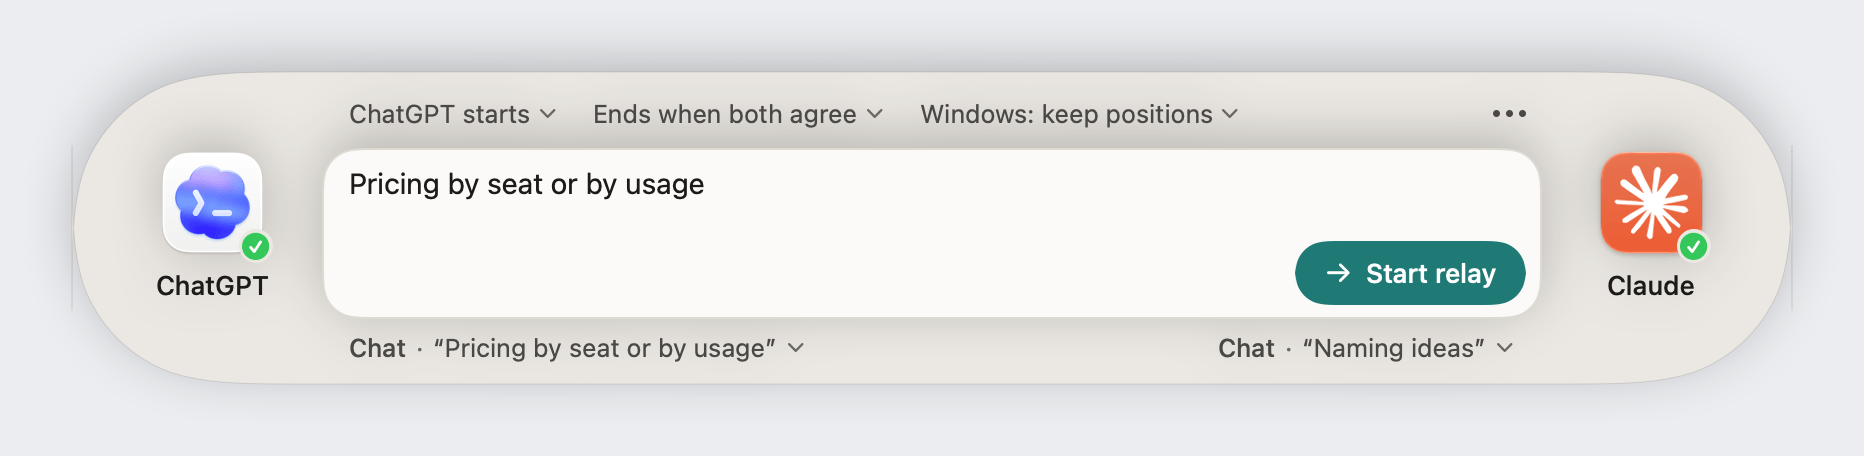
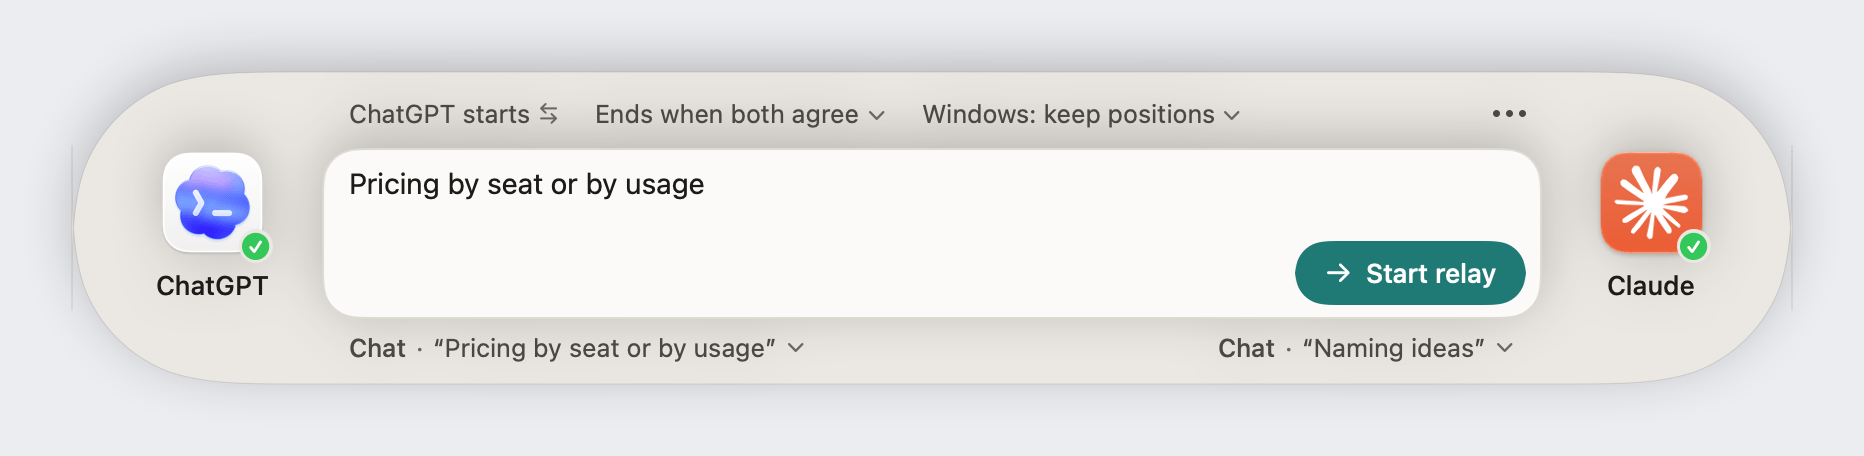
Make who starts a swap instead of a menu: a click hands the first turn to the other app, swap arrows make a half turn where a menu's chevron would stand, the tooltip and VoiceOver name who a click lets start, and the narrow console's Run options offers the swap as one command

Changed region(s): [[0.28, 0.2149, 0.6534, 0.2763]]

diff --git a/app/Errol/Errol/Perch/PerchConsole.swift b/app/Errol/Errol/Perch/PerchConsole.swift
@@ -59,8 +59,10 @@ struct PerchConsoleView: View {
 /// Before a run, the run's settings as chips that show their values; during
 /// and after one, the topic. The ··· app menu stands at the trailing end in
 /// every stage. A chip's width follows its value, so choosing another one
-/// springs the chip, and the chips after it, to the new width. With a turn
-/// limit, a stepper stands beside the ending chip and sets the count.
+/// springs the chip, and the chips after it, to the new width. Who starts is
+/// a choice of two, so its chip swaps with a click instead of opening a
+/// menu. With a turn limit, a stepper stands beside the ending chip and sets
+/// the count.
 struct PerchTopicLine: View {
     @Bindable var controller: RelayController
     @Environment(\.accessibilityReduceMotion) private var reduceMotion
@@ -73,7 +75,7 @@ struct PerchTopicLine: View {
         HStack(spacing: Perch.s(6)) {
             if controller.stage == .compose {
                 ViewThatFits(in: .horizontal) {
-                    HStack(spacing: Perch.s(6)) { starterMenu; endingControl; windowsMenu }.fixedSize()
+                    HStack(spacing: Perch.s(6)) { starterSwap; endingControl; windowsMenu }.fixedSize()
                     HStack(spacing: Perch.s(6)) { endingControl; runOptionsMenu }.fixedSize()
                 }
             } else {
@@ -93,6 +95,9 @@ struct PerchTopicLine: View {
 
     private var starterTitle: String { "\(controller.appName(controller.firstSpeaker)) starts" }
 
+    /// The side a click on the starter hands the first turn to.
+    private var otherStarter: Speaker { controller.firstSpeaker == .chatgpt ? .claude : .chatgpt }
+
     private var endingTitle: String {
         switch controller.ending {
         case .bothAgree: "Ends when both agree"
@@ -111,9 +116,14 @@ struct PerchTopicLine: View {
 
     private var windowsTitle: String { controller.setup.state.layout.consoleTitle }
 
-    private var starterMenu: some View {
-        PerchChipMenu(title: starterTitle) { starterItems }
-            .help("Who receives the topic first")
+    private var starterSwap: some View {
+        PerchChipSwap(title: starterTitle, turned: controller.firstSpeaker == .claude) {
+            controller.firstSpeaker = otherStarter
+        }
+        .help("Let \(controller.appName(otherStarter)) start instead")
+        .accessibilityLabel("Who starts")
+        .accessibilityValue(controller.appName(controller.firstSpeaker))
+        .accessibilityHint("Switches to \(controller.appName(otherStarter))")
     }
 
     /// The ending chip, and the turn limit's stepper beside it while that is
@@ -138,12 +148,15 @@ struct PerchTopicLine: View {
             .disabled(controller.isShowingWindow)
     }
 
-    /// The narrow console's fallback: who starts and the arrangement as
-    /// submenus titled with their values. The ending stays out on the row,
-    /// where its stepper can stand beside it.
+    /// The narrow console's fallback: who starts as one command that swaps
+    /// it, like the chip, and the arrangement as a submenu titled with its
+    /// value. The ending stays out on the row, where its stepper can stand
+    /// beside it.
     private var runOptionsMenu: some View {
         PerchChipMenu(title: "Run options") {
-            Menu(starterTitle) { starterItems }
+            Button { controller.firstSpeaker = otherStarter } label: {
+                Label("Let \(controller.appName(otherStarter)) start", systemImage: PerchChipSwap.symbol)
+            }
             Menu(windowsTitle) { windowsItems }
                 .disabled(controller.isShowingWindow)
         }
@@ -152,14 +165,6 @@ struct PerchTopicLine: View {
 
     // Toggles, so the menu checks the value in force in its own column.
     // Choosing the checked one again changes nothing.
-
-    @ViewBuilder private var starterItems: some View {
-        ForEach([Speaker.chatgpt, .claude], id: \.self) { speaker in
-            Toggle("\(controller.appName(speaker)) starts", isOn: Binding(
-                get: { controller.firstSpeaker == speaker },
-                set: { if $0 { controller.firstSpeaker = speaker } }))
-        }
-    }
 
     /// The three endings. The turn limit's count is set with the stepper
     /// that appears beside the chip, not here.

diff --git a/app/Errol/Errol/Perch/PerchButtons.swift b/app/Errol/Errol/Perch/PerchButtons.swift
@@ -117,23 +117,30 @@ extension View {
     }
 }
 
-/// A menu's face in the console's rows: its current value and a chevron.
-/// While a new value springs the chip to its width, the text rolls to it
-/// glyph by glyph, keeping in place what the two values share ("Ends ",
-/// " starts"), and stays inside its own frame, clear of the chevron. A
+/// A chip's face in the console's rows: its current value, and a symbol
+/// for what a click does — a menu's chevron, unless the chip names its
+/// own. While a new value springs the chip to its width, the text rolls to
+/// it glyph by glyph, keeping in place what the two values share ("Ends ",
+/// " starts"), and stays inside its own frame, clear of the symbol. A
 /// plain crossfade laid the two phrases over each other. A title that
 /// carries a number passes it as `value`, so its digits roll up as it grows
 /// and down as it shrinks.
 struct PerchChipLabel: View {
     let title: String
     var value: Double? = nil
+    var symbol = "chevron.down"
+    var symbolAngle = Angle.zero
 
     var body: some View {
         HStack(spacing: Perch.s(3)) {
             Text(title).contentTransition(value.map { .numericText(value: $0) } ?? .numericText()).clipped()
-            Image(systemName: "chevron.down")
+            // Set in a text run: as an image inside the console, the swap
+            // arrows came out white in the offscreen renders (as the ···
+            // symbol did), while a symbol in text keeps its ink.
+            Text(Image(systemName: symbol))
                 .font(Perch.text(8, .semibold))
                 .foregroundStyle(Perch.muted)
+                .rotationEffect(symbolAngle)
         }
         .font(Perch.text(11.5))
         .foregroundStyle(Perch.secondary)
@@ -157,6 +164,27 @@ struct PerchChipMenu<Items: View>: View {
             .buttonStyle(.plain)
             .menuIndicator(.hidden)
             .fixedSize()
+    }
+}
+
+/// A choice of two worn as a chip: a click takes the other value, with no
+/// menu to open in between. Swap arrows stand where a menu's chevron would,
+/// and a half turn as the value changes plays the swap; the arrows look the
+/// same either way up, so they come to rest as they were.
+struct PerchChipSwap: View {
+    static let symbol = "arrow.left.arrow.right"
+
+    let title: String
+    /// Which of the two values is in force, for the arrows' half turn.
+    let turned: Bool
+    let action: () -> Void
+
+    var body: some View {
+        Button(action: action) {
+            PerchChipLabel(title: title, symbol: Self.symbol, symbolAngle: .degrees(turned ? 180 : 0))
+        }
+        .buttonStyle(.plain)
+        .fixedSize()
     }
 }
 

diff --git a/README.md b/README.md
@@ -88,7 +88,7 @@ for the full scenario matrix, prerequisites, reports, and verification limits.
 1. Open `app/Errol/Errol.xcodeproj` in Xcode and run, or build and copy `Errol.app` wherever you keep apps.
 2. On a launch without the Accessibility grant, Errol opens its main panel with the permission request in the console's place: the same capsule, with the request at one end and **Open Accessibility Settings…** at the other. The button triggers the system prompt on the first click; later clicks open Privacy & Security > Accessibility directly. Turn on Errol there. The panel checks for access every second and crossfades to setup when macOS confirms the grant; hiding and reopening the panel does not skip it, and revoking access brings it back. (When running from Xcode, the grant may attribute to Xcode instead — grant whichever the prompt names. Re-signed rebuilds can look like a new app to the privacy system; re-toggle the grant if nothing responds.)
 3. Click the Errol icon in the menu bar. Use **Open ChatGPT**, **Open Claude**, or **Open both apps** if needed. A single eligible window connects automatically; when there are several, click the app icon or its destination line and choose a conversation in the participant popover. The surface and title stay visible beneath the editor. A connection follows that window, including a different conversation subsequently displayed inside it.
-4. Type the topic, choose who starts and how the relay ends from the menus above it, then press **Start relay**. The Windows menu applies an arrangement immediately. Start stays unavailable while a destination needs attention or the topic is empty, with the reason beside it.
+4. Type the topic, set who starts and how the relay ends in the row above it, then press **Start relay**. Clicking **ChatGPT starts** hands the first turn to Claude, and clicking it again hands it back; the ending is a menu. The Windows menu applies an arrangement immediately. Start stays unavailable while a destination needs attention or the topic is empty, with the reason beside it.
 
 The machine is effectively unusable while a run is active (shared clipboard and focus), and typing into either chat app mid-run breaks the relay. **Stop** ends the run at the next safe point; when a run ends, the console takes the keyboard back from the chat app that replied last, and the two next intentions stand beside the summary: **Another topic here** keeps the connections (both are verified again before Send comes back), and **Set up fresh conversations…** returns to the connect steps so new chats can be opened in the apps and connected. Minimizing a connected window, or leaving a draft in a composer, does not break the run: it holds with the reason in the capsule ("Paused: Claude's window isn't showing", "Paused: ChatGPT has an unsent draft") and resumes on its own once the window is back or the composer is clear — see the safeguards above. Switching conversations inside a connected window is not a hold: Errol writes into whatever that window shows. Every copy, paste, and send goes to the window that was connected, never to another window the app happens to have in front.
 
@@ -97,10 +97,10 @@ The machine is effectively unusable while a run is active (shared clipboard and 
 The console is **Perch** (`app/Errol/Errol/Perch/`), implementing the [console layout proposal](docs/design-proposals/console-layout/README.md). It keeps the 860 × 156 capsule, two participants at the ends, and a separate summary beneath it.
 
 - **Participants and destinations:** stable app names and badges distinguish ready, attention, replying, and waiting. Click either an icon or its destination to open the same details panel. It shows the full title, surface, model and effort, and whether the window continues a conversation. **Show window** brings the connected window forward; **Choose another…** selects an eligible window. Remembered, unverified destinations say **Last used**.
-- **Session options:** before a run, the top row names who starts, how the run ends, and the window arrangement. A run ends **when both agree** (the mutual sign-off), **after a set number of turns**, or **when you stop it**.
+- **Session options:** before a run, the top row names who starts, how the run ends, and the window arrangement. Who starts is a choice of two, so a click swaps it, with no menu; swap arrows stand where the other chips' chevrons are. A run ends **when both agree** (the mutual sign-off), **after a set number of turns**, or **when you stop it**.
   - With a turn limit, a stepper beside the chip sets the count, from 1 to 99. The limit is a maximum: a mutual sign-off can end the relay sooner.
   - A run set to end when you stop it has no sign-off. The assistants' rules say the human will end the conversation, a stray end marker is relayed like any other text, and the run goes on until you press **Stop**. An empty reply, a timeout, or a failure still ends it. Mind the usage limits, since nothing caps the replies.
-  - On a narrow display, who starts and the arrangement are grouped under **Run options**. During and after a run, this row shows the topic instead.
+  - On a narrow display, who starts and the arrangement are grouped under **Run options**, where who starts is one command that swaps it. During and after a run, this row shows the topic instead.
 - **Running and steering:** a recessed status panel says who is replying or what is being sent, with the turn, elapsed time, and note receipt. **Pause to steer** waits for any active copy or delivery before opening the note editor. Return sends the note and continues; with an empty note it resumes. Escape clears a note, or resumes if already empty. **Stop** remains available. A queued note shows its next destination and **Clear note**. Recovery and completion messages preserve the relay's actual outcome; only mutual completion gets a success check.
 - **Conversation summary:** the window beneath the console has a reply count and survives pause/resume with its scroll position intact. Model summaries are plain text; original excerpts are quoted and italicized. Attempted notes retain their Sending, Sent, Unconfirmed, or Not sent receipt. Hover or keyboard-focus a row while paused or finished to **Show ChatGPT window** or **Show Claude window**; this shows the connected window, without navigating to a historical reply.
 - **Focus and availability:** participant details can open throughout a run without activating another app. **Show window** requires an acknowledged pause while running, preserves the note, and returns keyboard focus to it. Resume waits for that window action to finish. Destination changes, arranging/restoring windows, Inspect Apps, Finder, and updates are unavailable during a run. The focus alert still covers the console when an app needs to be brought forward.

diff --git a/docs/design-proposals/console-layout/IMPLEMENTATION.md b/docs/design-proposals/console-layout/IMPLEMENTATION.md
@@ -24,6 +24,10 @@ The capsule keeps its footprint and the two app icons. Participant names and bad
   - With a turn limit, a minus/plus stepper stands beside the chip, and its count rolls as it steps. It holds to repeat, takes the arrow keys, and adjusts as one control in VoiceOver.
   - When you stop it, the assistants are told the human will end the conversation, and a sign-off marker no longer ends the run. The status line reads "until you stop it".
   - In the narrow console, the ending and its stepper stay on the row, while who starts and the arrangement fold into Run options.
+- **Who starts swaps with a click.** With only two choices, the starter chip has no menu: a click hands the first turn to the other app.
+  - Swap arrows stand where a menu's chevron would, and make a half turn as the names change places.
+  - The tooltip names what a click will do ("Let Claude start instead"), and VoiceOver reads "Who starts, ChatGPT" with the hint "Switches to Claude".
+  - In the narrow console, Run options offers the same swap as one command.
 - **A solid window instead of glass.** The panel fills with a new theme color, the shell, and the prompt box and the conversation summary stand lighter than it in both appearances.
   - In light themes, the shell is a tinted gray a step under the well. Paper and the well keep their values, and the hairline darkens enough to show on the shell.
   - In dark themes, the old paper became the shell, the well stays, and a new, lighter paper sits a step over it. Popovers and the round buttons are paper too, so they lighten with it.
